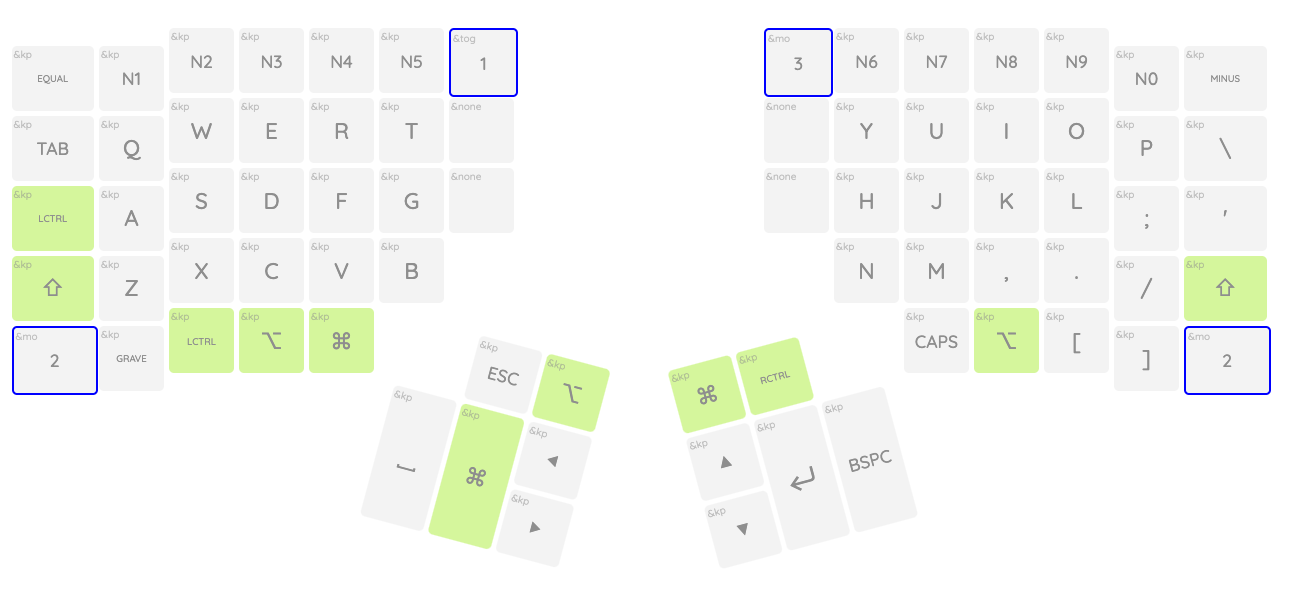
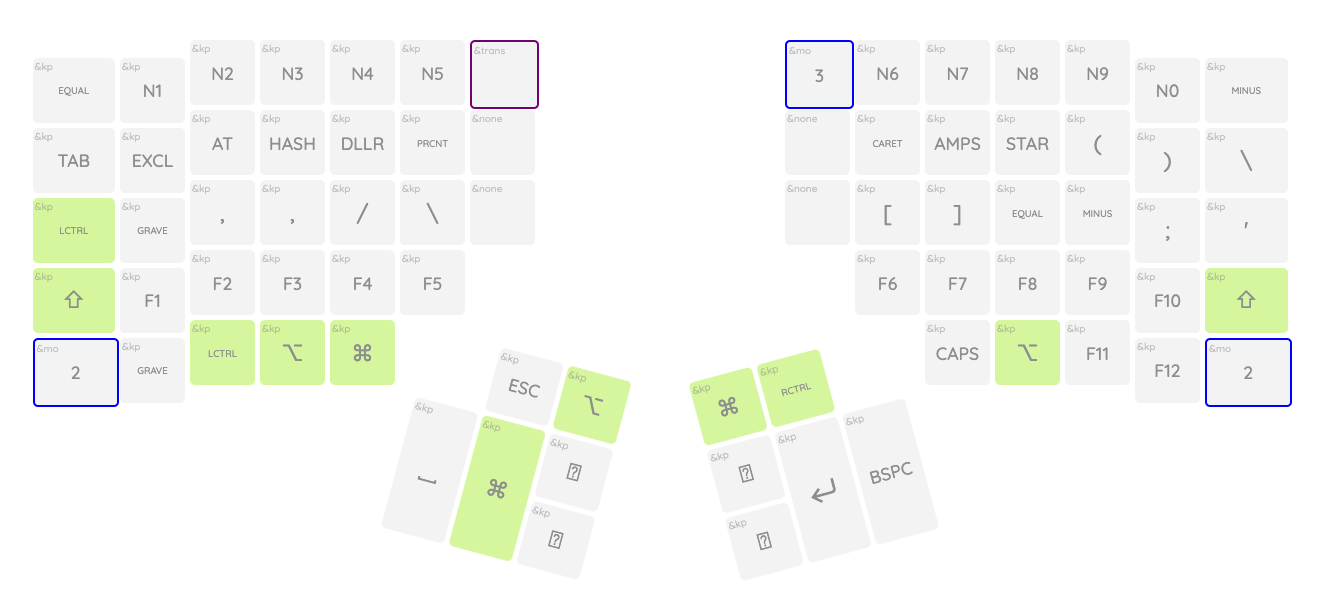
docs: layer0 and layer1

diff --git a/README.md b/README.md
@@ -2,6 +2,9 @@
 
 Idris WIP Version
 
+### Layer 0:
+![layer0](docs/layer0.png)
+
 ### Layer 1:
 ![layer1](docs/layer1.png)
 
